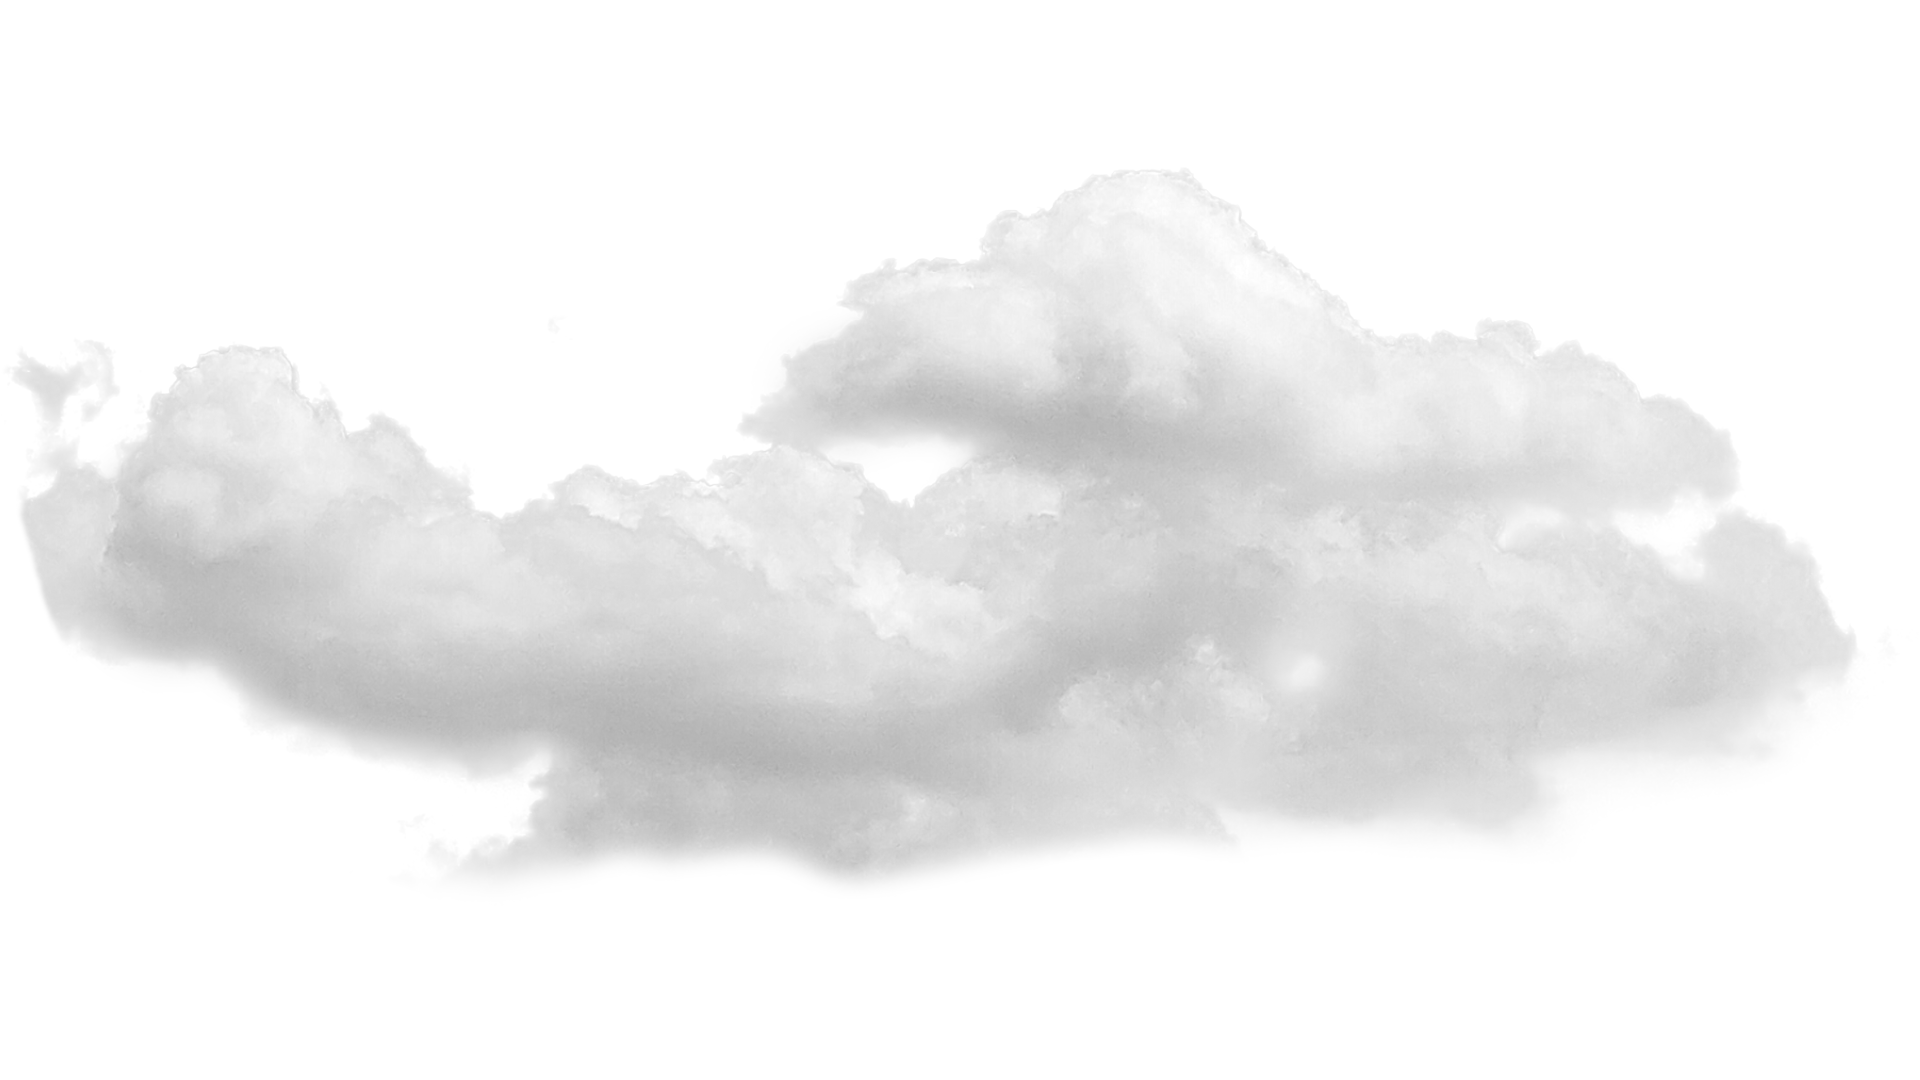
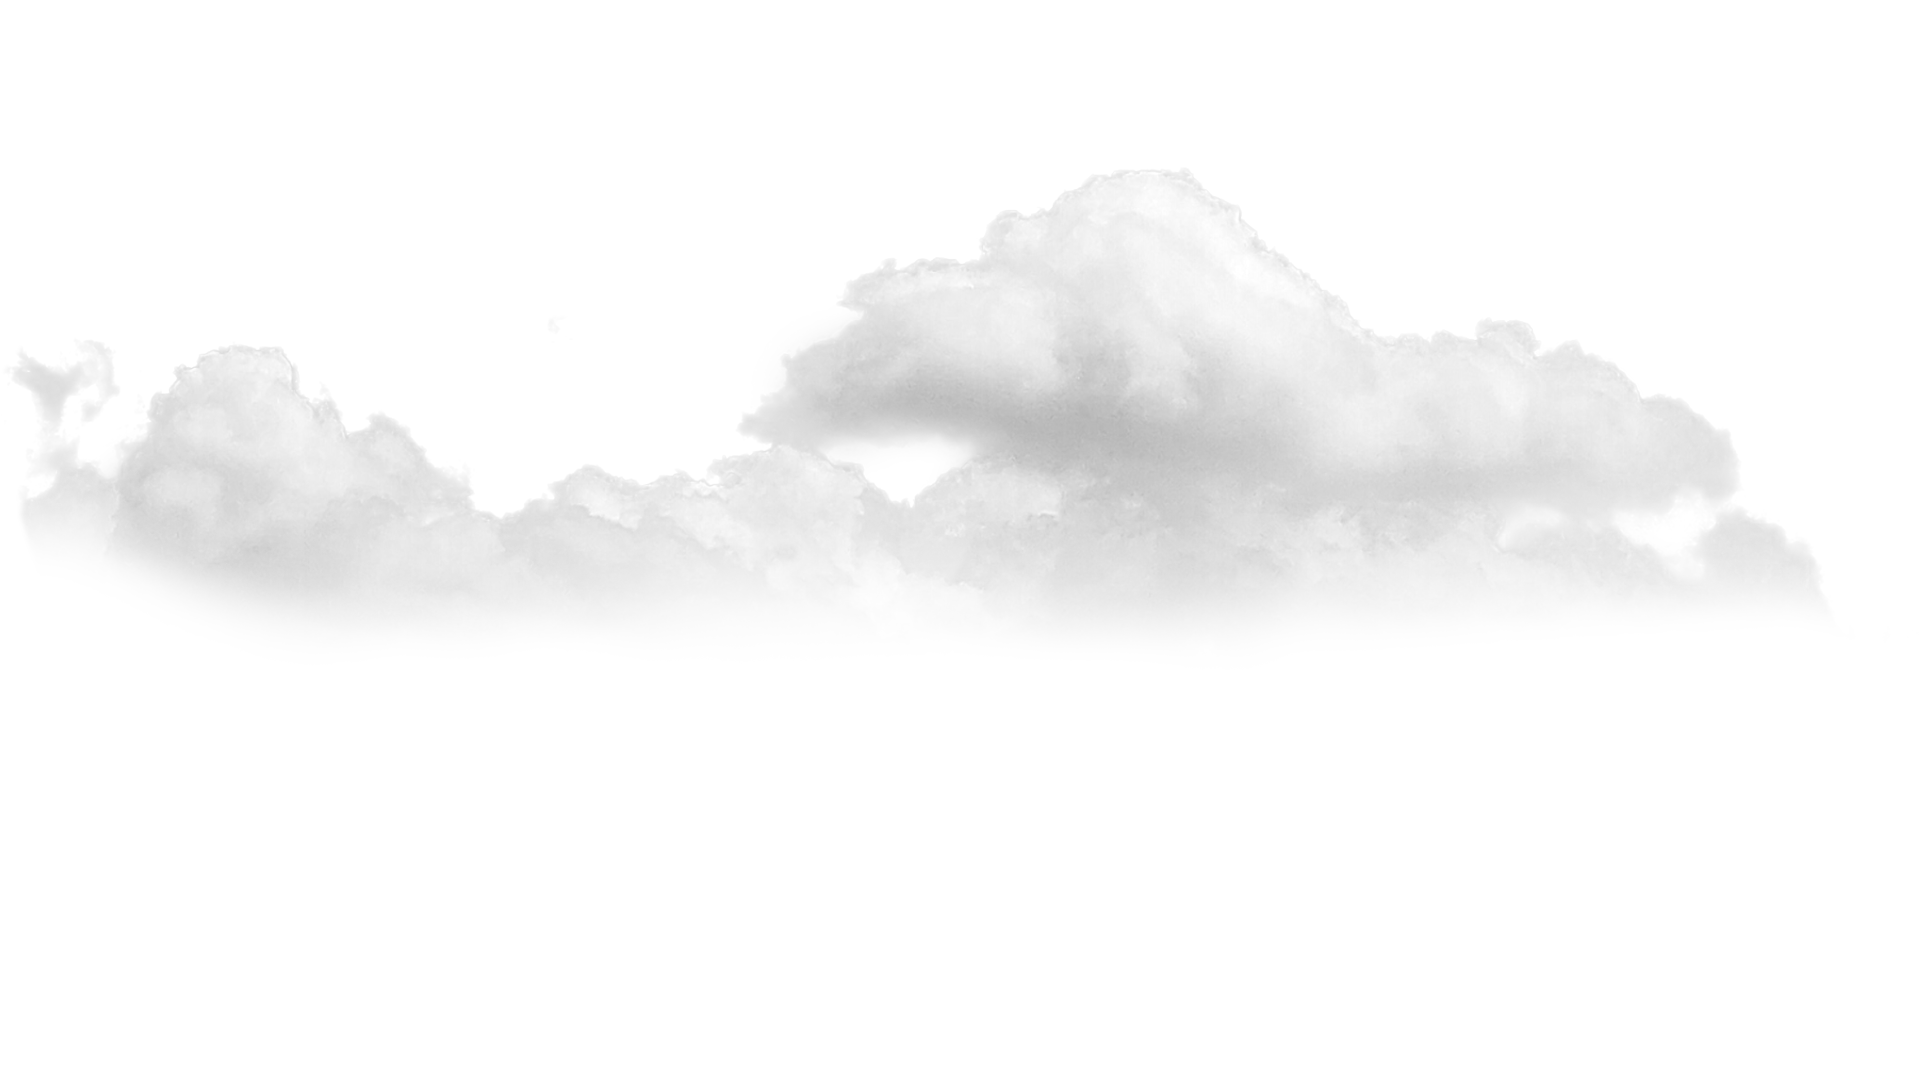
Add files via upload

Changed region(s): [[0.0, 0.4889, 0.9688, 0.825]]

diff --git a/index.html b/index.html
@@ -11,7 +11,7 @@
   <script defer src="app.js"></script>
 </head>
 <body>
-    </div>
+    <div>
     <header>
         <a href="#" class="logo active">Nordic<br>&lt;Web&gt;<br> Design</a>
         <ul>
@@ -30,21 +30,22 @@
             <span class="rotatingText-adjective">Hemsidor!</span>
         </p>
     </div>
-    <img src="images/cloud.png" alt="moln" class="bakgrund">
+    <img src="images/cloud2.png" alt="moln" class="bakgrund">
 <div class="white">
     <section class="hidden">
-        <h1>Vi strävar efter</h1>
+        <h1>Vi hjälper dig hela vägen</h1>
         <p>100% nöjda kunder ska du veta din jäkel</p>
     </section>
 
     <section class="hidden">
-        <h1>Klicka här för att få en offert</h1>
+        <h1>Uppdrag</h1>
     </section>
 
     <section class="hidden">
-        <h1>Tjo Tjena</h1>
-        <p>Texthär tjotjena</p>
+        <h1>offert</h1>
+        <p>image placeholder</p>
     </section>
 </div>
+    <img src="images/cloud3.png" alt="moln" class="bakgrund2">
 </body>
 </html>

diff --git a/styles.css b/styles.css
@@ -84,7 +84,7 @@ header ul li a:hover {
     font-weight: 700;
     left: 0;
     margin-bottom: 0;
-    margin-top: 25rem;
+    margin-top: 23rem;
     opacity: 0;
     position: absolute;
     right: 0;
@@ -149,6 +149,16 @@ header ul li a:hover {
     margin-top: 5rem;
     height: auto;
     }
+  
+    img.bakgrund2 {
+      z-index: 1;
+      min-height: 100%;
+      min-width: auto;
+      width: 100%;
+      margin-bottom: 5rem;
+      height: auto;
+    }
+
 
 @media screen and (max-width: 768px) {
     header {
@@ -168,6 +178,7 @@ section {
   align-content: center;
   min-height: 100vh;
   color: #2b1055;
+  text-align: center;
 }
 
 .hidden {
@@ -194,3 +205,4 @@ section {
   background-color: #fff;
   margin-top: -7rem;
 }
+
